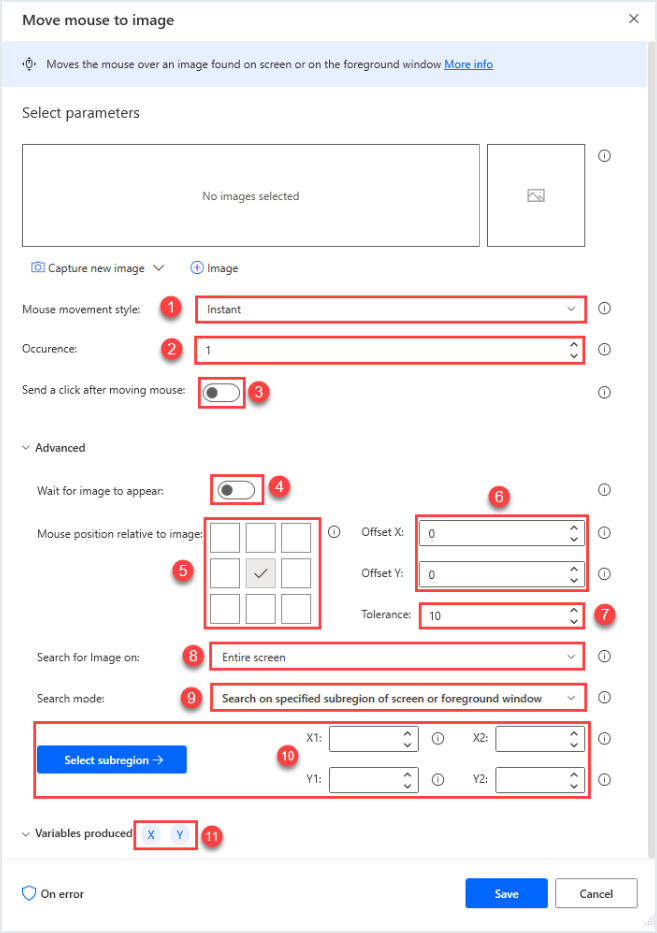
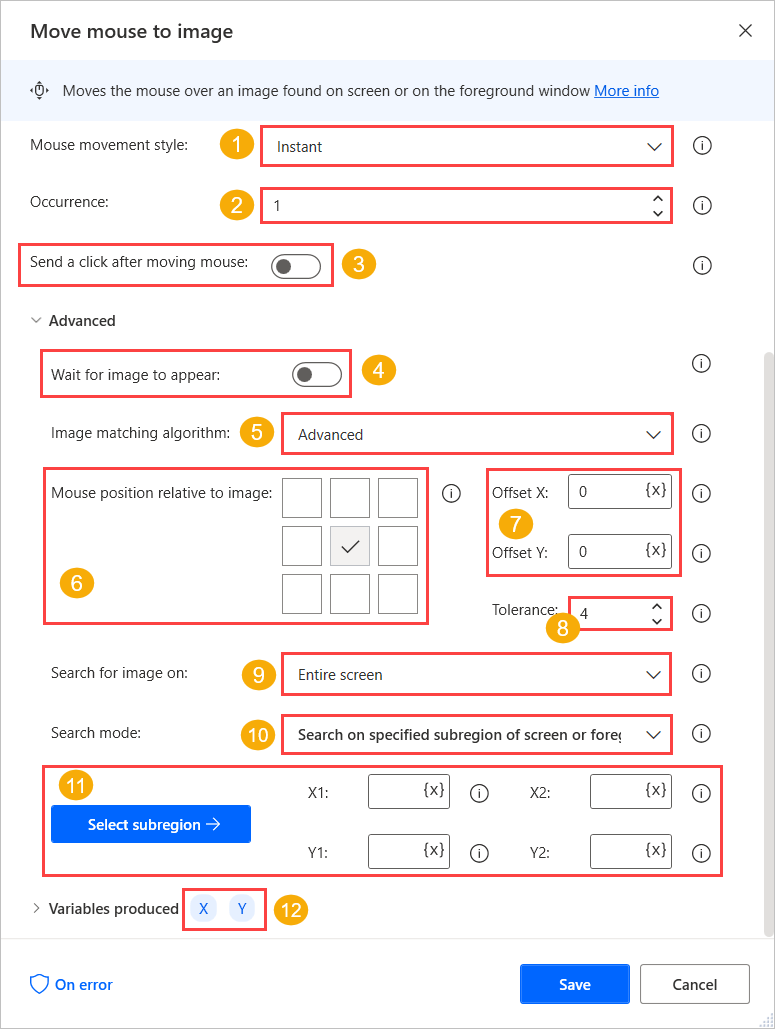
Updates in Simulate mouse and keyboard

diff --git a/learn-bizapps-pr/flow/pad-mouse-keyboard/includes/2-mouse-keyboard-actions.md b/learn-bizapps-pr/flow/pad-mouse-keyboard/includes/2-mouse-keyboard-actions.md
@@ -18,6 +18,7 @@ Use this action to add multiple images. When an action includes multiple images,
 1. Determine which occurrence of the image the action should move the mouse to.
 1. Send a left mouse click after moving the cursor to the image. Set the click to occur immediately after the cursor has been moved to the image or specify a delay in seconds.
 1. Set the action to wait for the image to appear onscreen as well as a duration for the wait
+1. Determine which algorithm to use when searching for the image.
 1. Use the graphical tool to determine which part of the image the cursor moves to; center, left, middle, upper right etc.
 1. Use the x and y offset fields to further modify this selection.
 1. Use the tolerance field to allow for some difference between the captured image and the actual image the action will search for. The higher the tolerance, the more likely the action will be to identify the offscreen image, even if it differs from the one captured. The tolerance is measured on a scale of 0 to 128.
@@ -28,7 +29,7 @@ Use this action to add multiple images. When an action includes multiple images,
 
    ![Screenshot of the Move Mouse to Image action properties dialog.](..\media\move-mouse-image-action-properties.png)
 
-Specify a string of text on the screen to move the cursor to with the **Move Mouse to Text onscreen**. The action moves the cursor to the text, even if it is stored as an image such as a jpg or pdf file. For this action, you must specify an optical character recognition (OCR) engine or an OCR engine variable. The callouts in the following illustration show how to configure this action.
+Specify a string of text on the screen to move the cursor to with the **Move Mouse to Text on screen**. The action moves the cursor to the text, even if it is stored as an image such as a jpg or pdf file. For this action, you must specify an optical character recognition (OCR) engine or an OCR engine variable. The callouts in the following illustration show how to configure this action.
 
 1. In the action properties, set the OCR engine type, or specify a previously created OCR engine variable
 1. Text to Find is a required input. Optionally enter a regular expression
@@ -36,6 +37,9 @@ Specify a string of text on the screen to move the cursor to with the **Move Mou
 1. Specify whether the action should search for the text on the entire screen, or only in the foreground window
 1. Specify a subregion relative to an image
 1. As with the previous actions, determine the speed of the mouse movement
+   
+   ![Screenshot of the Move Mouse to Text on Screen action properties dialog.](..\media\move-mouse-text-screen-action-properties.png)
+
 1. Determine whether the action should wait for an image to appear onscreen and for how long to wait before it fails
 1. Select whether to send a left mouse click after moving the cursor to the image. The click can occur immediately upon the cursor moving to the image or it can be delayed by a number of seconds.
 1. Determine whether the cursor should move to the center or another area of the text
@@ -44,7 +48,7 @@ Specify a string of text on the screen to move the cursor to with the **Move Mou
 1. The action creates four output variables; two that store the coordinates of the text found on screen
 1. The other two hold the dimensions of the area occupied by the text in pixels
 
-   ![Screenshot of the Move Mouse to Text on Screen action properties dialog.](..\media\move-mouse-text-screen-action-properties.png)
+   ![Screenshot of the Move Mouse to Text on Screen action advanced properties dialog.](..\media\move-mouse-text-screen-action-properties-advanced.png)  
 
 To simulate mouse click(s), use the **Send Mouse Click**. Choose whether the action should wait a number of milliseconds before sending the click. Unless otherwise configured, the action sends the mouse click at whatever position on screen the cursor happens to be when the process runs this action. Check Move mouse before sending mouse event to show the options of the Move Mouse action. A variable can be used for entering the coordinates. Set the coordinates relative to the entire screen, the active window or the current mouse position. To enter the cursor's current position into the coordinates, press CTRL+SHIFT. As with all mouse actions, determine the speed and animation type.
 
